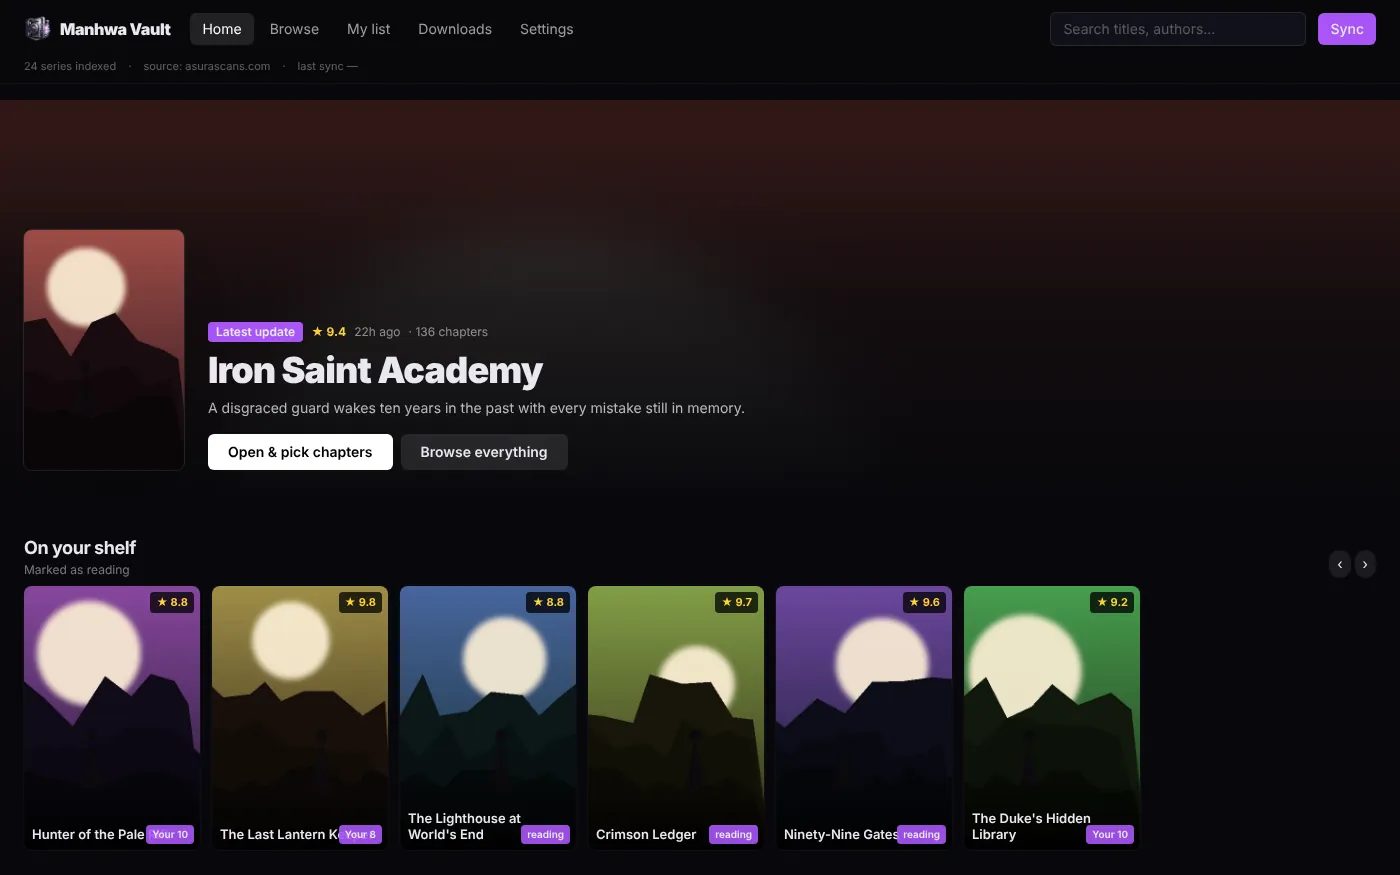
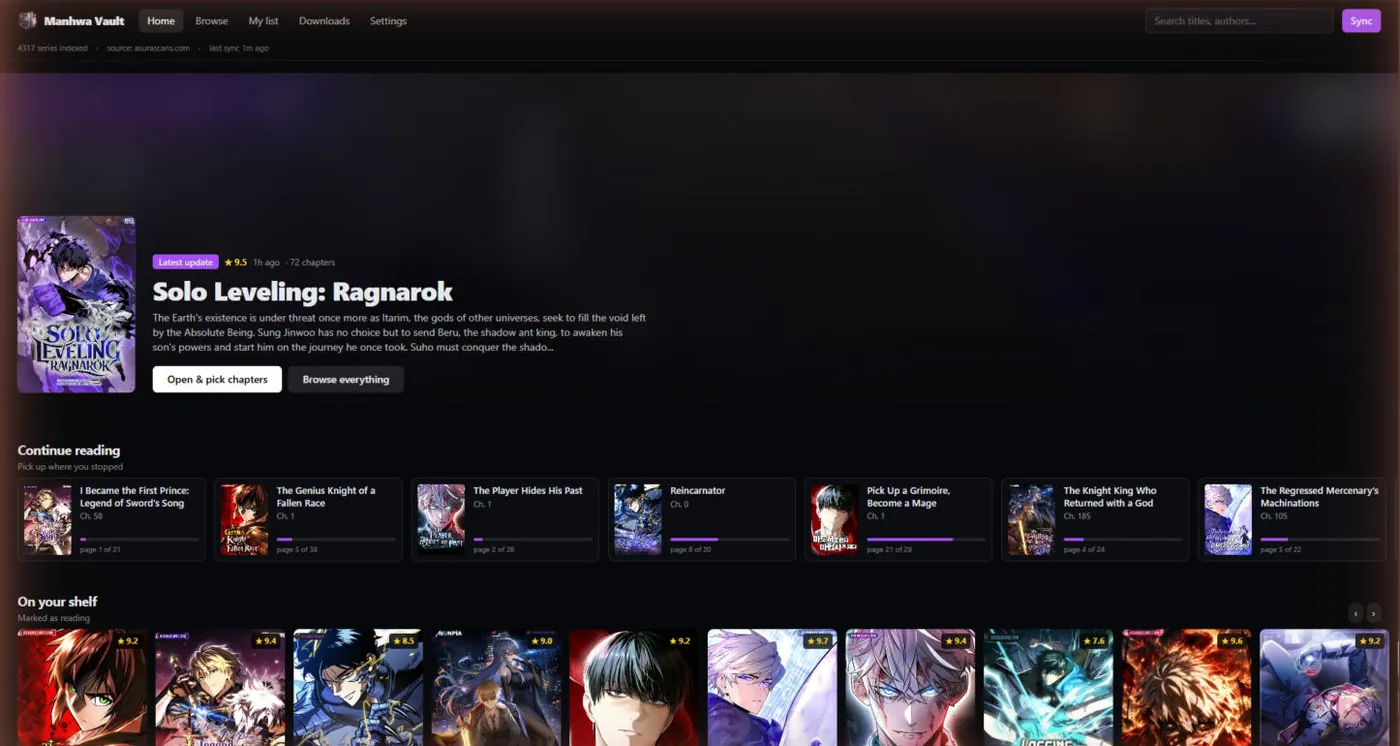
Use real Manhwa Vault screenshots from the production app
Replaces the seeded captures with screens of the app as it runs today
(home, catalogue, series page, download history) and updates the
captions in all languages. Local paths in the history are blurred.

diff --git a/src/data/captions.ts b/src/data/captions.ts
@@ -73,10 +73,10 @@ const captions: Record<string, Record<string, Line>> = {
     "02-inicio": ["Format, quantities and prefix", "Formato, quantidades e prefixo", "Formato, cantidades y prefijo", "Format, Mengen und Präfix", "形式、数量、接頭辞", "형식, 수량, 접두사", "格式、数量与前缀"],
   },
   vault: {
-    "01-inicio": ["Home with shelves", "Início com as estantes", "Inicio con las estanterías", "Start mit Regalen", "本棚のあるホーム", "책장이 있는 홈", "带书架的首页"],
-    "02-catalogo": ["Catalogue with filters", "Catálogo com filtros", "Catálogo con filtros", "Katalog mit Filtern", "フィルター付きのカタログ", "필터가 있는 카탈로그", "带筛选的目录"],
-    "03-capitulos": ["Picking chapters to archive", "Escolhendo capítulos para arquivar", "Eligiendo capítulos para archivar", "Kapitel zum Archivieren wählen", "保存する章を選ぶ", "보관할 회차 고르기", "选择要归档的章节"],
-    "04-download": ["Download panel: folder, arrangement and format", "Painel de download: pasta, organização e formato", "Panel de descarga: carpeta, organización y formato", "Download-Panel: Ordner, Anordnung und Format", "ダウンロード：フォルダ、構成、形式", "다운로드: 폴더, 구성, 형식", "下载面板：文件夹、组织方式与格式"],
+    "01-inicio": ["Home: latest update, continue reading and shelf", "Início: última atualização, continuar lendo e estante", "Inicio: última actualización, seguir leyendo y estantería", "Start: neuestes Update, Weiterlesen und Regal", "ホーム：最新更新、続きを読む、本棚", "홈: 최신 업데이트, 이어 읽기, 책장", "首页：最新更新、继续阅读与书架"],
+    "02-catalogo": ["Catalogue of 4,317 series with filters", "Catálogo de 4.317 séries com filtros", "Catálogo de 4.317 series con filtros", "Katalog mit 4.317 Serien und Filtern", "4,317作品のカタログとフィルター", "4,317개 시리즈 카탈로그와 필터", "4,317 部作品的目录与筛选"],
+    "03-capitulos": ["Series page: picking chapters to archive", "Página da série: escolhendo capítulos para arquivar", "Página de la serie: eligiendo capítulos para archivar", "Serienseite: Kapitel zum Archivieren wählen", "作品ページ：保存する章を選ぶ", "시리즈 페이지: 보관할 회차 고르기", "作品页：选择要归档的章节"],
+    "04-download": ["Download history: 47 chapters, 7 GB on disk", "Histórico de downloads: 47 capítulos, 7 GB em disco", "Historial de descargas: 47 capítulos, 7 GB en disco", "Download-Verlauf: 47 Kapitel, 7 GB auf der Festplatte", "ダウンロード履歴：47章、ディスク上7 GB", "다운로드 기록: 47화, 디스크 7GB", "下载记录：47 章，占用 7 GB"],
   },
 };
 
